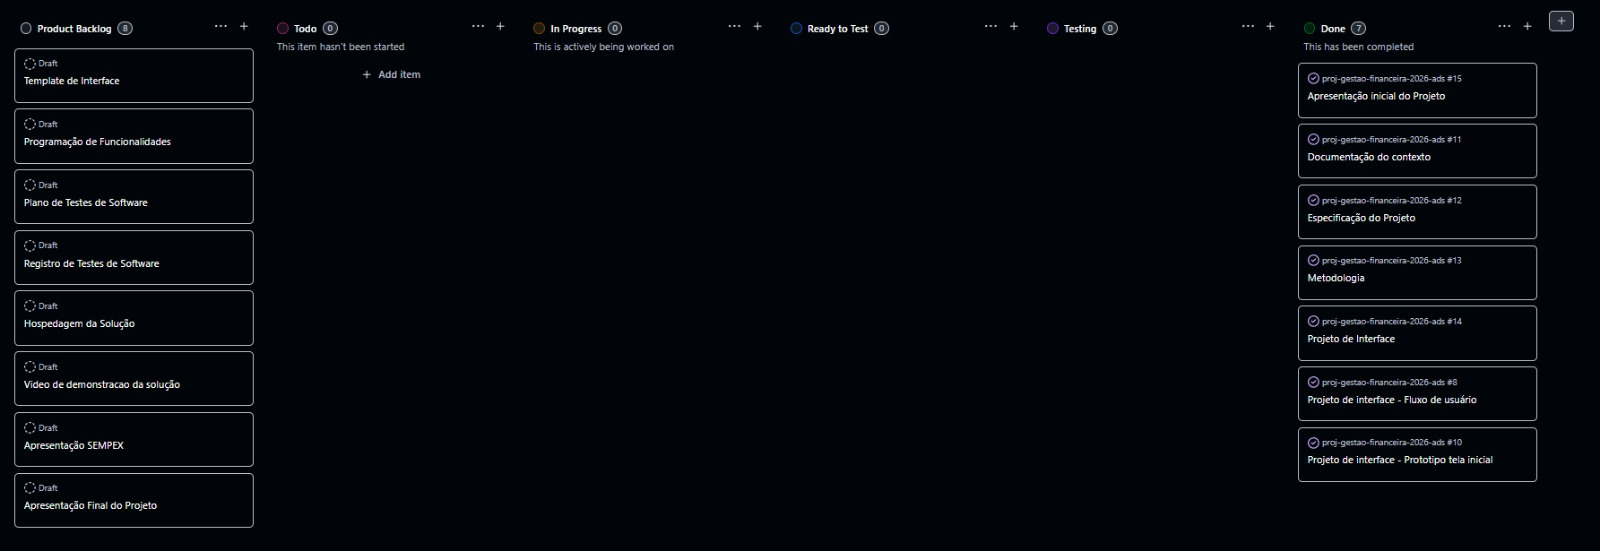
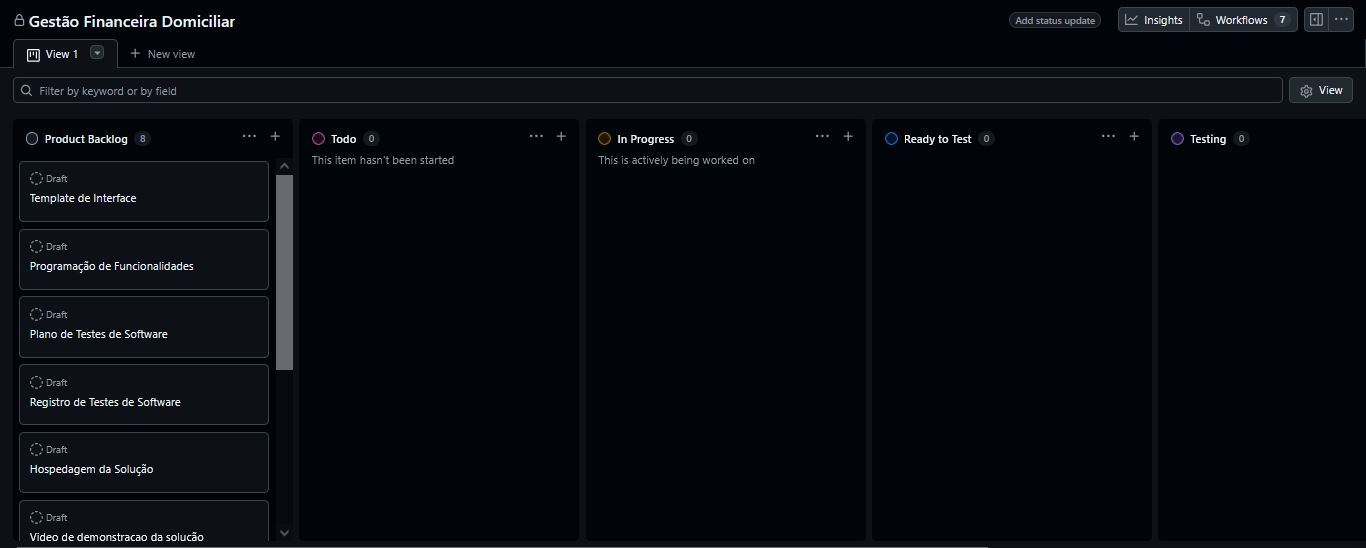
Atualizações em metodologia e interface

diff --git a/documentos/03-Metodologia.md b/documentos/03-Metodologia.md
@@ -34,7 +34,7 @@ A equipe utiliza o GitHub Projects para o acompanhamento do desenvolvimento do p
 - Testing: Esta coluna representa as Tarefas da Etapa em Revisão e/ou Teste. O integrante definido pela equipe revisa/testa a Tarefa do colega e, logo em seguida, apresenta na descrição da tarefa os resultados obtidos. O integrante que desenvolveu a Tarefa que apresenta revisões a serem realizadas deve aprimorar a sua Tarefa a partir das observações recebidas antes de movê-la para Done.
 - Done: Esta coluna representa as Tarefas concluídas, considerando que as Tarefas passaram pelos testes, foram aprimoradas pelos feedbacks obtidos nas revisões/testes e estão prontas para ser entregues.
 
-![Quadro Kanbam](imguserflow/Kanbam.jpeg)
+![Quadro Kanbam](imguserflow/kanbam.jpeg)
 
 > **Links Úteis**:
 > - [Planejamento de projetos para desenvolvedores](https://github.com/features/project-management/)

diff --git a/documentos/04-Projeto de Interface.md b/documentos/04-Projeto de Interface.md
@@ -4,7 +4,7 @@ O fluxograma da abaixo ilustra o percurso de interação do usuário pelas difer
 
 ## User Flow
 
-![User Flow](imguserflow/Userflow.png)
+![User Flow](imguserflow/userflow.jpeg)
 
     Figura 1 - Tela Fluxo de telas do usuário 
 
@@ -22,7 +22,7 @@ As telas do sistema seguem uma estrutura padronizada, ilustrada a baixo. Essa co
 •	Rodapé: seção inferior que contém informações institucionais e de direitos autorais.
 
 
-![Prototipo](imguserflow/Prototipo.png)
+![Prototipo](imguserflow/prototipo.jpeg)
 
     Figura 2 - Tela Estrutura da aplicação
 
